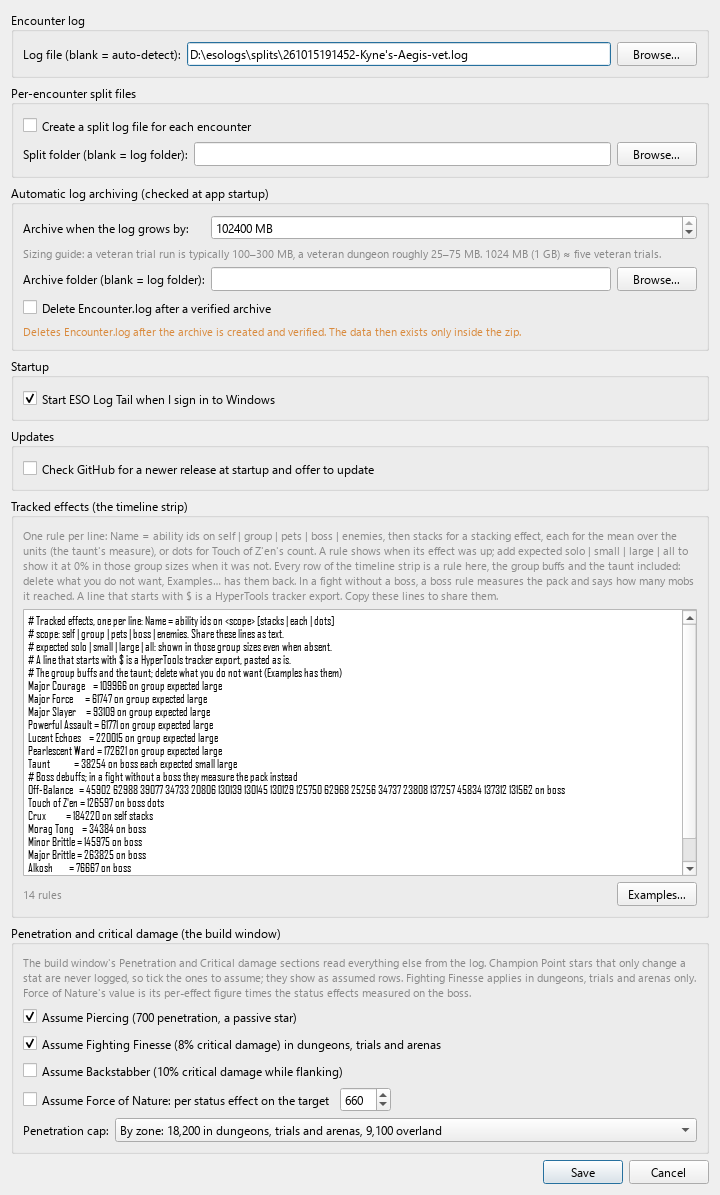
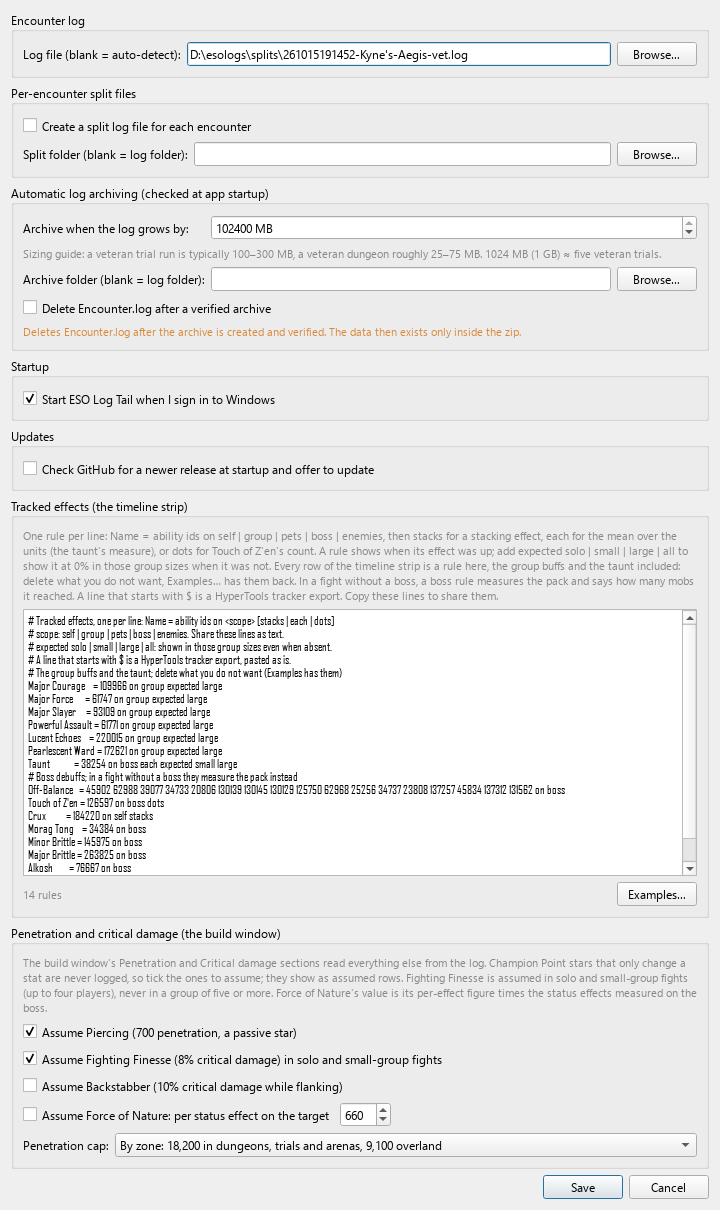
feat: Fighting Finesse assumed in solo and small-group fights, not in trials (#37)
Chris's revised decision after reviewing his own trial parse against
Combat Metrics, whose uncapped maximum matched the log's sources without
the star. The assumed Fighting Finesse row now follows the fight's group
size (effect_rules.group_size_class, carried on entry.pen_crit as
'group_size'): solo and small groups get it, a group of five or more does
not, whatever the zone. Settings, the user guide and the changelog say
so; the Kyne's Aegis screenshots show the trial rows without it.

diff --git a/src/pen_crit.py b/src/pen_crit.py
@@ -99,7 +99,7 @@ import math
 from collections.abc import Callable, Iterable
 from functools import lru_cache
 
-from effect_rules import EffectTracker, Rule
+from effect_rules import PLAYER_KINDS, EffectTracker, Rule, group_size_class
 from player_build import (
     ARMOR_SLOTS,
     OFF_HAND_OF,
@@ -126,12 +126,15 @@ FRONT, BACK = 0, 1
 BAR_NAMES = ("front", "back")
 
 # Champion Point stars the log cannot show (see the module docstring): the
-# renderer adds them from the Settings. 'instanced_only' applies in
-# dungeons, trials and arenas, not overland (Chris's choice, 2026-10-24).
+# renderer adds them from the Settings. 'group_sizes' says in which group
+# sizes a star is assumed (effect_rules.group_size_class): Fighting Finesse
+# in solo and small-group fights, not in a trial's large group, where a
+# damage dealer's Warfare slots usually go elsewhere (Chris's choice,
+# 2026-10-24, after his own trial parse read without it).
 ASSUMED_STARS = {
     "piercing": {"name": "Piercing", "source": "Champion Point passive", "pen": 700},
     "fighting_finesse": {"name": "Fighting Finesse", "source": "Champion Point slottable",
-                         "crit": 8, "instanced_only": True},
+                         "crit": 8, "group_sizes": ("solo", "small")},
     "backstabber": {"name": "Backstabber", "source": "Champion Point slottable, while flanking",
                     "crit": 10},
 }
@@ -566,7 +569,7 @@ def _pct(ms: int, duration_ms: int) -> int:
 
 
 def _histogram(keys_damage: dict[tuple, int]) -> list[list]:
-    return [list(key) + [damage] for key, damage in sorted(keys_damage.items())]
+    return [[*key, damage] for key, damage in sorted(keys_damage.items())]
 
 
 def fight_fields(tracker: EffectTracker, start_ms: int, end_ms: int,
@@ -693,8 +696,11 @@ def fight_fields(tracker: EffectTracker, start_ms: int, end_ms: int,
         return _histogram(pen_keys), _histogram(crit_keys), total
 
     pen_hist, crit_hist, total = histograms(group_target_buckets, None)
+    # The fight's group size, for the Champion Point rows assumed per size
+    group_size = group_size_class(sum(1 for info in units.values() if info[0] in PLAYER_KINDS))
     entry = {"on": ("boss" if bosses else "enemies") if targets else "", "targets": len(targets),
              "cap": cap, "instanced": bool(instanced or dummy), "dummy": bool(dummy),
+             "group_size": group_size,
              "debuffs": debuff_rows, "pen_hist": pen_hist, "crit_hist": crit_hist, "damage": total}
 
     players: dict[str, dict] = {}
@@ -780,7 +786,7 @@ def player_totals(player_pc: dict | None, fight_pc: dict | None,
     cap_setting = options.get("cap", "auto")
     cap = pen_cap(instanced, None if cap_setting in (None, "", "auto") else cap_setting)
     crit_cap = int(data.get("crit_cap") or CRIT_CAP)
-    assumed = assumed_rows(options, instanced)
+    assumed = assumed_rows(options, instanced, group.get("group_size"))
     static_pen = [float(v) for v in (data.get("static_pen") or [0, 0])]
     static_crit = [float(v) for v in (data.get("static_crit") or [0, 0])]
     for row in assumed:
@@ -814,15 +820,19 @@ def cap_shares(player_pc: dict | None, fight_pc: dict | None, options: dict | No
             "crit_over_pct": crit["over_pct"]}
 
 
-def assumed_rows(options: dict | None, instanced: bool) -> list[dict]:
+def assumed_rows(options: dict | None, instanced: bool, group_size: str | None = None) -> list[dict]:
     """The Champion Point rows the Settings ask for, as source rows marked
-    assumed; Force of Nature is handled by the reader from the histogram."""
+    assumed; Force of Nature is handled by the reader from the histogram.
+    *group_size* is the fight's ('solo', 'small', 'large' or None when
+    unknown, which assumes): a star with 'group_sizes' is left out in the
+    others. *instanced* is kept for a star that may one day need it."""
     options = options or {}
     rows = []
     for key, star in ASSUMED_STARS.items():
         if not options.get(key):
             continue
-        if star.get("instanced_only") and not instanced:
+        sizes = star.get("group_sizes")
+        if sizes and group_size is not None and group_size not in sizes:
             continue
         row = _row(star["name"], star["source"], "assumed",
                    _pair(star["pen"]) if star.get("pen") else None,

diff --git a/tests/unit/test_pen_crit.py b/tests/unit/test_pen_crit.py
@@ -194,15 +194,26 @@ class TestCapsAndAssumptions(unittest.TestCase):
         self.assertEqual(pen_crit.pen_cap(True, "9100"), 9100)
         self.assertEqual(pen_crit.pen_cap(True, "auto"), 18200)
 
-    def test_assumed_rows_follow_the_options_and_the_zone(self):
+    def test_assumed_rows_follow_the_options_and_the_group_size(self):
         options = {"piercing": True, "fighting_finesse": True, "backstabber": True}
-        names = [r["name"] for r in pen_crit.assumed_rows(options, instanced=True)]
-        self.assertEqual(names, ["Piercing", "Fighting Finesse", "Backstabber"])
+        for size in ("solo", "small", None):
+            names = [r["name"] for r in pen_crit.assumed_rows(options, True, size)]
+            self.assertEqual(names, ["Piercing", "Fighting Finesse", "Backstabber"], size)
         self.assertTrue(all(r["kind"] == "assumed" for r in pen_crit.assumed_rows(options, True)))
-        names = [r["name"] for r in pen_crit.assumed_rows(options, instanced=False)]
-        self.assertEqual(names, ["Piercing", "Backstabber"])
-        self.assertEqual(pen_crit.assumed_rows({}, True), [])
+        # Not in a trial's group, whether the zone is instanced or not
+        for instanced in (True, False):
+            names = [r["name"] for r in pen_crit.assumed_rows(options, instanced, "large")]
+            self.assertEqual(names, ["Piercing", "Backstabber"])
+        self.assertEqual(pen_crit.assumed_rows({}, True, "solo"), [])
         self.assertEqual(pen_crit.assumed_rows(None, True), [])
+
+    def test_player_totals_take_the_fights_group_size(self):
+        options = {"fighting_finesse": True}
+        small = pen_crit.player_totals(CAP_PLAYER, dict(CAP_FIGHT, group_size="small"), options)
+        large = pen_crit.player_totals(CAP_PLAYER, dict(CAP_FIGHT, group_size="large"), options)
+        self.assertEqual([r["name"] for r in small["assumed"]], ["Fighting Finesse"])
+        self.assertEqual(large["assumed"], [])
+        self.assertEqual((small["static_crit"][0], large["static_crit"][0]), (18.0, 10.0))
 
 
 class TestEffective(unittest.TestCase):
@@ -355,6 +366,7 @@ class TestEngine(unittest.TestCase):
         entry = fights(lines)[0]
         self.assertEqual(entry.pen_crit["on"], "enemies")  # the fixture's boss carries no boss flag
         self.assertTrue(entry.pen_crit["instanced"])  # VETERAN zone
+        self.assertEqual(entry.pen_crit["group_size"], "small")  # three players
         self.assertFalse(entry.pen_crit["dummy"])
         breach = entry.pen_crit["debuffs"][0]
         self.assertEqual((breach["name"], breach["uptime_pct"]), ("Major Breach", 50))

diff --git a/src/gui/settings_dialog.py b/src/gui/settings_dialog.py
@@ -19,8 +19,9 @@ from pen_crit import FORCE_OF_NATURE_PER_EFFECT, PEN_CAP_INSTANCED, PEN_CAP_OVER
 PEN_CRIT_HELP = ("The build window's Penetration and Critical damage sections read everything "
                  "else from the log. Champion Point stars that only change a stat are never "
                  "logged, so tick the ones to assume; they show as assumed rows. Fighting "
-                 "Finesse applies in dungeons, trials and arenas only. Force of Nature's value "
-                 "is its per-effect figure times the status effects measured on the boss.")
+                 "Finesse is assumed in solo and small-group fights (up to four players), never "
+                 "in a group of five or more. Force of Nature's value is its per-effect figure "
+                 "times the status effects measured on the boss.")
 BY_ZONE = (f"By zone: {PEN_CAP_INSTANCED:,} in dungeons, trials and arenas, "
            f"{PEN_CAP_OVERLAND:,} overland")
 CAP_CHOICES = (("auto", BY_ZONE),
@@ -197,7 +198,7 @@ class SettingsDialog(QDialog):
         self.assume_piercing.setChecked(bool(config.get("pen_crit.piercing", True)))
         pen_form.addRow(self.assume_piercing)
         self.assume_finesse = QCheckBox(
-            "Assume Fighting Finesse (8% critical damage) in dungeons, trials and arenas")
+            "Assume Fighting Finesse (8% critical damage) in solo and small-group fights")
         self.assume_finesse.setChecked(bool(config.get("pen_crit.fighting_finesse", True)))
         pen_form.addRow(self.assume_finesse)
         self.assume_backstabber = QCheckBox("Assume Backstabber (10% critical damage while flanking)")

diff --git a/src/app_config.py b/src/app_config.py
@@ -50,7 +50,7 @@ DEFAULTS = {
     # 9,100 overland; or a number)
     "pen_crit": {
         "piercing": True,
-        "fighting_finesse": True,       # in dungeons, trials and arenas only
+        "fighting_finesse": True,       # in solo and small-group fights, never in a large group
         "backstabber": False,
         "force_of_nature": False,
         "force_of_nature_per_effect": 660,

diff --git a/CHANGELOG.md b/CHANGELOG.md
@@ -7,7 +7,7 @@ All notable changes to the ESO Live Encounter Log Sets & Abilities Analyzer will
 ### Added
 - **Effective penetration and crit damage on every player's row** (#37): after the damage shares, `p:18199 cd:121%` gives the player's effective penetration and critical damage over the fight, computed as the build window's sections compute them (each second capped, the Settings' assumed Champion Point rows included), in both views and in the copied text. Hovering it gives the caps, the shares of them and the share of damage dealt over each; clicking it opens the build window at the two sections. A player who dealt no damage has no token
 - **The Trial dummy's own debuffs are credited** (#37): the "Target Iron Atronach, Trial" puts Major and Minor Breach, Crusher, Roar of Alkosh, Minor Brittle and Elemental Catalyst on itself when it spawns and keeps them, so a log session that starts after the spawn has no line for them. The penetration and crit figures now credit them by the dummy's name for the whole fight, as Combat Metrics reads them from the game at the pull, and a fight against it counts as instanced (18,200). Checked against a Combat Metrics report of a 25 s parse: own penetration 3,126 and the dummy's 17,030 give its maximum of 20,156 exactly, and the effective figures agree (18,200 and 124.9% against its 18,200 and 124.4%). The same check showed the summoned bear's ultimate reads `Guardian's Savagery` (or `Guardian's Wrath`) on a bar, which the skill-line table did not know, so Advanced Species counted one Animal Companions ability too few; both names are now in the table
-- **Penetration and critical damage in the build window** (#37): two sections under the gear grid list where a player's Offensive Penetration and Critical Damage come from and how they stand against the caps (18,200 in dungeons, trials and arenas, 9,100 overland; 125%, 155% with Above and Beyond), the way LunaCairu's PenCrit Calc sheet and the Hyperioxes calculators do with checkboxes. The player's own rows come from the log: the passives on their build (Concentration per light piece, Dexterity per medium piece, Hemorrhage, Piercing Spear, Fated Fortune, Advanced Species and Splintered Secrets per slotted ability, Dismember, Feline Ambush, Hunter's Eye, Twin Blade and Blunt and Heavy Weapons per axe or mace, Blessing at the Peak, Above and Beyond, valued by the game's own texts and by rank), the mundus stone with its Divines pieces, each set at its worn piece count from a new bundled table of UESP's set texts (`data/sets/offense.json`, `scripts/generate_set_offense.py`), and Sharpened weapons; a two-bar value reads `front / back`, a conditional bonus `up to`. The group's rows are the debuffs on the boss (Major and Minor Breach, Crusher valued from the caster's glyph, Roar of Alkosh, Crimson Oath's Rive, Runic Sunder, Crystal Weapon, Tremorscale; Minor and Major Brittle, Elemental Catalyst's weaknesses) with uptime and who applied them with what set or glyph, and the buffs on the player (Major and Minor Force, Lucent Echoes, Fated Fortune's proc), valued as Combat Metrics values them. The totals give the player's own figure, the sum with every debuff at full uptime, and the effective figure: each second's effects added to the player's own, capped, and weighed by the damage dealt that second, as Combat Metrics weighs each hit, with the share of damage dealt over the cap. Champion Point stars that only change a stat never appear in the log (four trial logs, 2,292 builds), so Settings chooses which to assume: Piercing and, in instanced content, Fighting Finesse on by default, Backstabber and Force of Nature (valued from the status effects measured on the boss) off; they show as assumed rows and apply without a restart. The target counts as a trial boss when the zone is normal or veteran or a trial dummy's own debuffs are seen
+- **Penetration and critical damage in the build window** (#37): two sections under the gear grid list where a player's Offensive Penetration and Critical Damage come from and how they stand against the caps (18,200 in dungeons, trials and arenas, 9,100 overland; 125%, 155% with Above and Beyond), the way LunaCairu's PenCrit Calc sheet and the Hyperioxes calculators do with checkboxes. The player's own rows come from the log: the passives on their build (Concentration per light piece, Dexterity per medium piece, Hemorrhage, Piercing Spear, Fated Fortune, Advanced Species and Splintered Secrets per slotted ability, Dismember, Feline Ambush, Hunter's Eye, Twin Blade and Blunt and Heavy Weapons per axe or mace, Blessing at the Peak, Above and Beyond, valued by the game's own texts and by rank), the mundus stone with its Divines pieces, each set at its worn piece count from a new bundled table of UESP's set texts (`data/sets/offense.json`, `scripts/generate_set_offense.py`), and Sharpened weapons; a two-bar value reads `front / back`, a conditional bonus `up to`. The group's rows are the debuffs on the boss (Major and Minor Breach, Crusher valued from the caster's glyph, Roar of Alkosh, Crimson Oath's Rive, Runic Sunder, Crystal Weapon, Tremorscale; Minor and Major Brittle, Elemental Catalyst's weaknesses) with uptime and who applied them with what set or glyph, and the buffs on the player (Major and Minor Force, Lucent Echoes, Fated Fortune's proc), valued as Combat Metrics values them. The totals give the player's own figure, the sum with every debuff at full uptime, and the effective figure: each second's effects added to the player's own, capped, and weighed by the damage dealt that second, as Combat Metrics weighs each hit, with the share of damage dealt over the cap. Champion Point stars that only change a stat never appear in the log (four trial logs, 2,292 builds), so Settings chooses which to assume: Piercing, and Fighting Finesse in solo and small-group fights (never in a group of five or more), on by default, Backstabber and Force of Nature (valued from the status effects measured on the boss) off; they show as assumed rows and apply without a restart. The target counts as a trial boss when the zone is normal or veteran or a trial dummy's own debuffs are seen
 - **The dps figures look like links** (#34): the header's group DPS, which opens the dps over time graph, and each player's DPS, which opens their damage window, looked like plain text until hovered, and the damage window had no other way in. The group figure now ends in a small line of the graph's own kind in the link colour, and each player's figure in three small bars in the muted colour, inside the link, so hovering or clicking the mark works as on the figure. Names are unchanged. The marks are drawn by the app, follow the pane's font size and stay crisp on a scaled display; copied text is unchanged
 - **Possible build issues** (#16): a `ⓘ` after a player's class on the fight pane, only when the app found something in the build they pulled with; hover it for the list, click it for each finding with the rule behind it, set and skill names linking to ESO-Hub, and the build window repeats the list under its header. Eight rules, decided on 2026-10-24 and checked against 83 split logs of September and October 2026 (1,615 fights, 13,998 player-fights, 393 characters), which 17% of the characters seen would get a note from: Nirnhoned on an off-hand weapon (Dual Wield Expert counts 6% of an off-hand weapon's damage; 17 characters); the same glyph on both weapons of a bar, whatever the glyph (measured on those logs, identical glyphs share one cooldown: the same glyph from one player never fired twice within 4 seconds whether a bar carried it once or twice; 22 characters); two or more heavy armor pieces on a damage dealer who has not taunted this session (one piece is the Undaunted Mettle norm; 9 characters); a weapon skill on a bar holding another weapon, the back bar under Oakensoul Ring excepted (14 characters, Stampede on a staff back bar the commonest); Elemental Drain slotted, the finding stating both morphs (5 characters); Roar of Alkosh or Roaring Opportunist worn at five pieces and never firing, judged per logging session over fights of a minute or more and cleared by one fire (3 and 8 characters); Pearlescent Ward, Xoryn's Masterpiece or Lucent Echoes complete on one bar only (3 characters, two of them tanks at four of five on the front bar); and a tank with no taunt or pull on either bar and no taunt logged this session, a tank being a player whose largest pool is health, who holds a shield, an ice staff or five heavy pieces, who dealt under half an equal share of the group's damage and who is not a healer by staff or healing (real tanks in those logs dealt a median tenth of an equal share; 3 characters). The weapon skill lines come from a new bundled table of UESP's player skills (`data/skills/weapon_skill_lines.json`, 605 ids). Replaying 9 split logs (181 fights, 1,594 player-fights) through the old and the new engine changed nothing but the new key.
 

diff --git a/docs/user-guide.md b/docs/user-guide.md
@@ -111,7 +111,7 @@ Under the gear grid, two sections do what raid leads do with a spreadsheet of ch
 ![The Penetration and Critical damage sections of the build window](screencaps/build-pen-crit.png)
 
 - **The player's own rows**: the passives on their build (light armor's Concentration per piece, medium armor's Dexterity, Hemorrhage, Piercing Spear, Fated Fortune, Advanced Species and Splintered Secrets per slotted ability, Dismember, the Khajiit and Wood Elf racials, Twin Blade and Blunt and Heavy Weapons per axe or mace, Blessing at the Peak, Above and Beyond), the mundus stone with its Divines pieces, each set at its worn piece count (`Spriggan's Thorns 5 pieces 3,460`, Velothi's 1,650, Order's Wrath's 8%), and a Sharpened weapon. A value that depends on the bar reads `front / back`. A bonus the game grants under a condition (Sul-Xan's 12% after a soul, Dismember while a Grave Lord ability is active) is listed as `up to` and not added; a set that gives Minor Force at all times is listed as the reason for the buff, which is measured instead.
-- **Assumed rows** are Champion Point stars, which the log never carries when they only change a stat. Settings chooses them: Piercing (700) and, in dungeons, trials and arenas, Fighting Finesse (8%) by default; Backstabber (10%) and Force of Nature off. Force of Nature's row, when on, is its per-effect value times the status effects actually measured on the boss.
+- **Assumed rows** are Champion Point stars, which the log never carries when they only change a stat. Settings chooses them: Piercing (700) and, in solo and small-group fights (up to four players), Fighting Finesse (8%) by default, since a trial build's Warfare slots usually go elsewhere; Backstabber (10%) and Force of Nature off. Force of Nature's row, when on, is its per-effect value times the status effects actually measured on the boss.
 - **Group on the boss**: each debuff that was on the boss during the fight with its value, its uptime and who applied it (`@tank via Infused Inferno Staff (back bar) 70%`, `@healer via Roar of Alkosh 100%`): Major and Minor Breach, Crusher (1,622 for the gold glyph, 2,108 Infused, 3,056 with Torug's Pact, read from the caster's weapon), Roar of Alkosh, Crimson Oath's Rive, Runic Sunder, Crystal Weapon, Tremorscale; Minor and Major Brittle and Elemental Catalyst's weaknesses for critical damage. In a fight without a boss the debuffs on the mobs the group hit are measured.
 - **Buffs on this player**: Major Force, Minor Force, Lucent Echoes and Fated Fortune's proc, with their uptime on this player.
 - **Totals**: *Own* is the player's rows and the assumed ones; *with the group's debuffs at full uptime* adds every debuff seen, the way the spreadsheet does with ticked boxes, and says how far over or under the cap that is; *Effective* is the figure that counts: for every second of the fight, the debuffs on the target and the buffs on the player are added to the player's own, capped, and weighed by the damage this player dealt that second, which is how Combat Metrics weighs each hit. Beside it, the share of the player's damage dealt while over the cap. A player who dealt no damage gets no effective figure.
@@ -225,7 +225,7 @@ Open **Settings…** from the toolbar.
 - **Startup**: *Start ESO Log Tail when I sign in to Windows*, a per-user login entry that needs no admin rights and is removed on uninstall. Not offered on Linux.
 - **Updates**: check GitHub for a newer release at startup and offer to install it. See [below](#automatic-updates).
 - **Tracked effects**: the rules behind the timeline strip. See [Tracked effects](#tracked-effects).
-- **Penetration and critical damage**: the Champion Point stars the build window's sections assume (Piercing and Fighting Finesse on by default, Backstabber and Force of Nature off, with Force of Nature's figure per status effect), and the penetration cap: by zone, or always 18,200 or 9,100. These apply to the next build window opened; no restart is needed. See [Penetration and critical damage](#penetration-and-critical-damage).
+- **Penetration and critical damage**: the Champion Point stars the build window's sections assume (Piercing on by default; Fighting Finesse on by default in solo and small-group fights and never in a group of five or more; Backstabber and Force of Nature off, with Force of Nature's figure per status effect), and the penetration cap: by zone, or always 18,200 or 9,100. These apply to the next build window opened; no restart is needed. See [Penetration and critical damage](#penetration-and-critical-damage).
 
 Saving restarts monitoring: the history clears and the current session is replayed with the new settings. Settings live in a per-user file, `%LOCALAPPDATA%\esolog-tail\config.json` (`~/.config/esolog-tail/config.json` on Linux), and survive upgrades and uninstalls.
 
